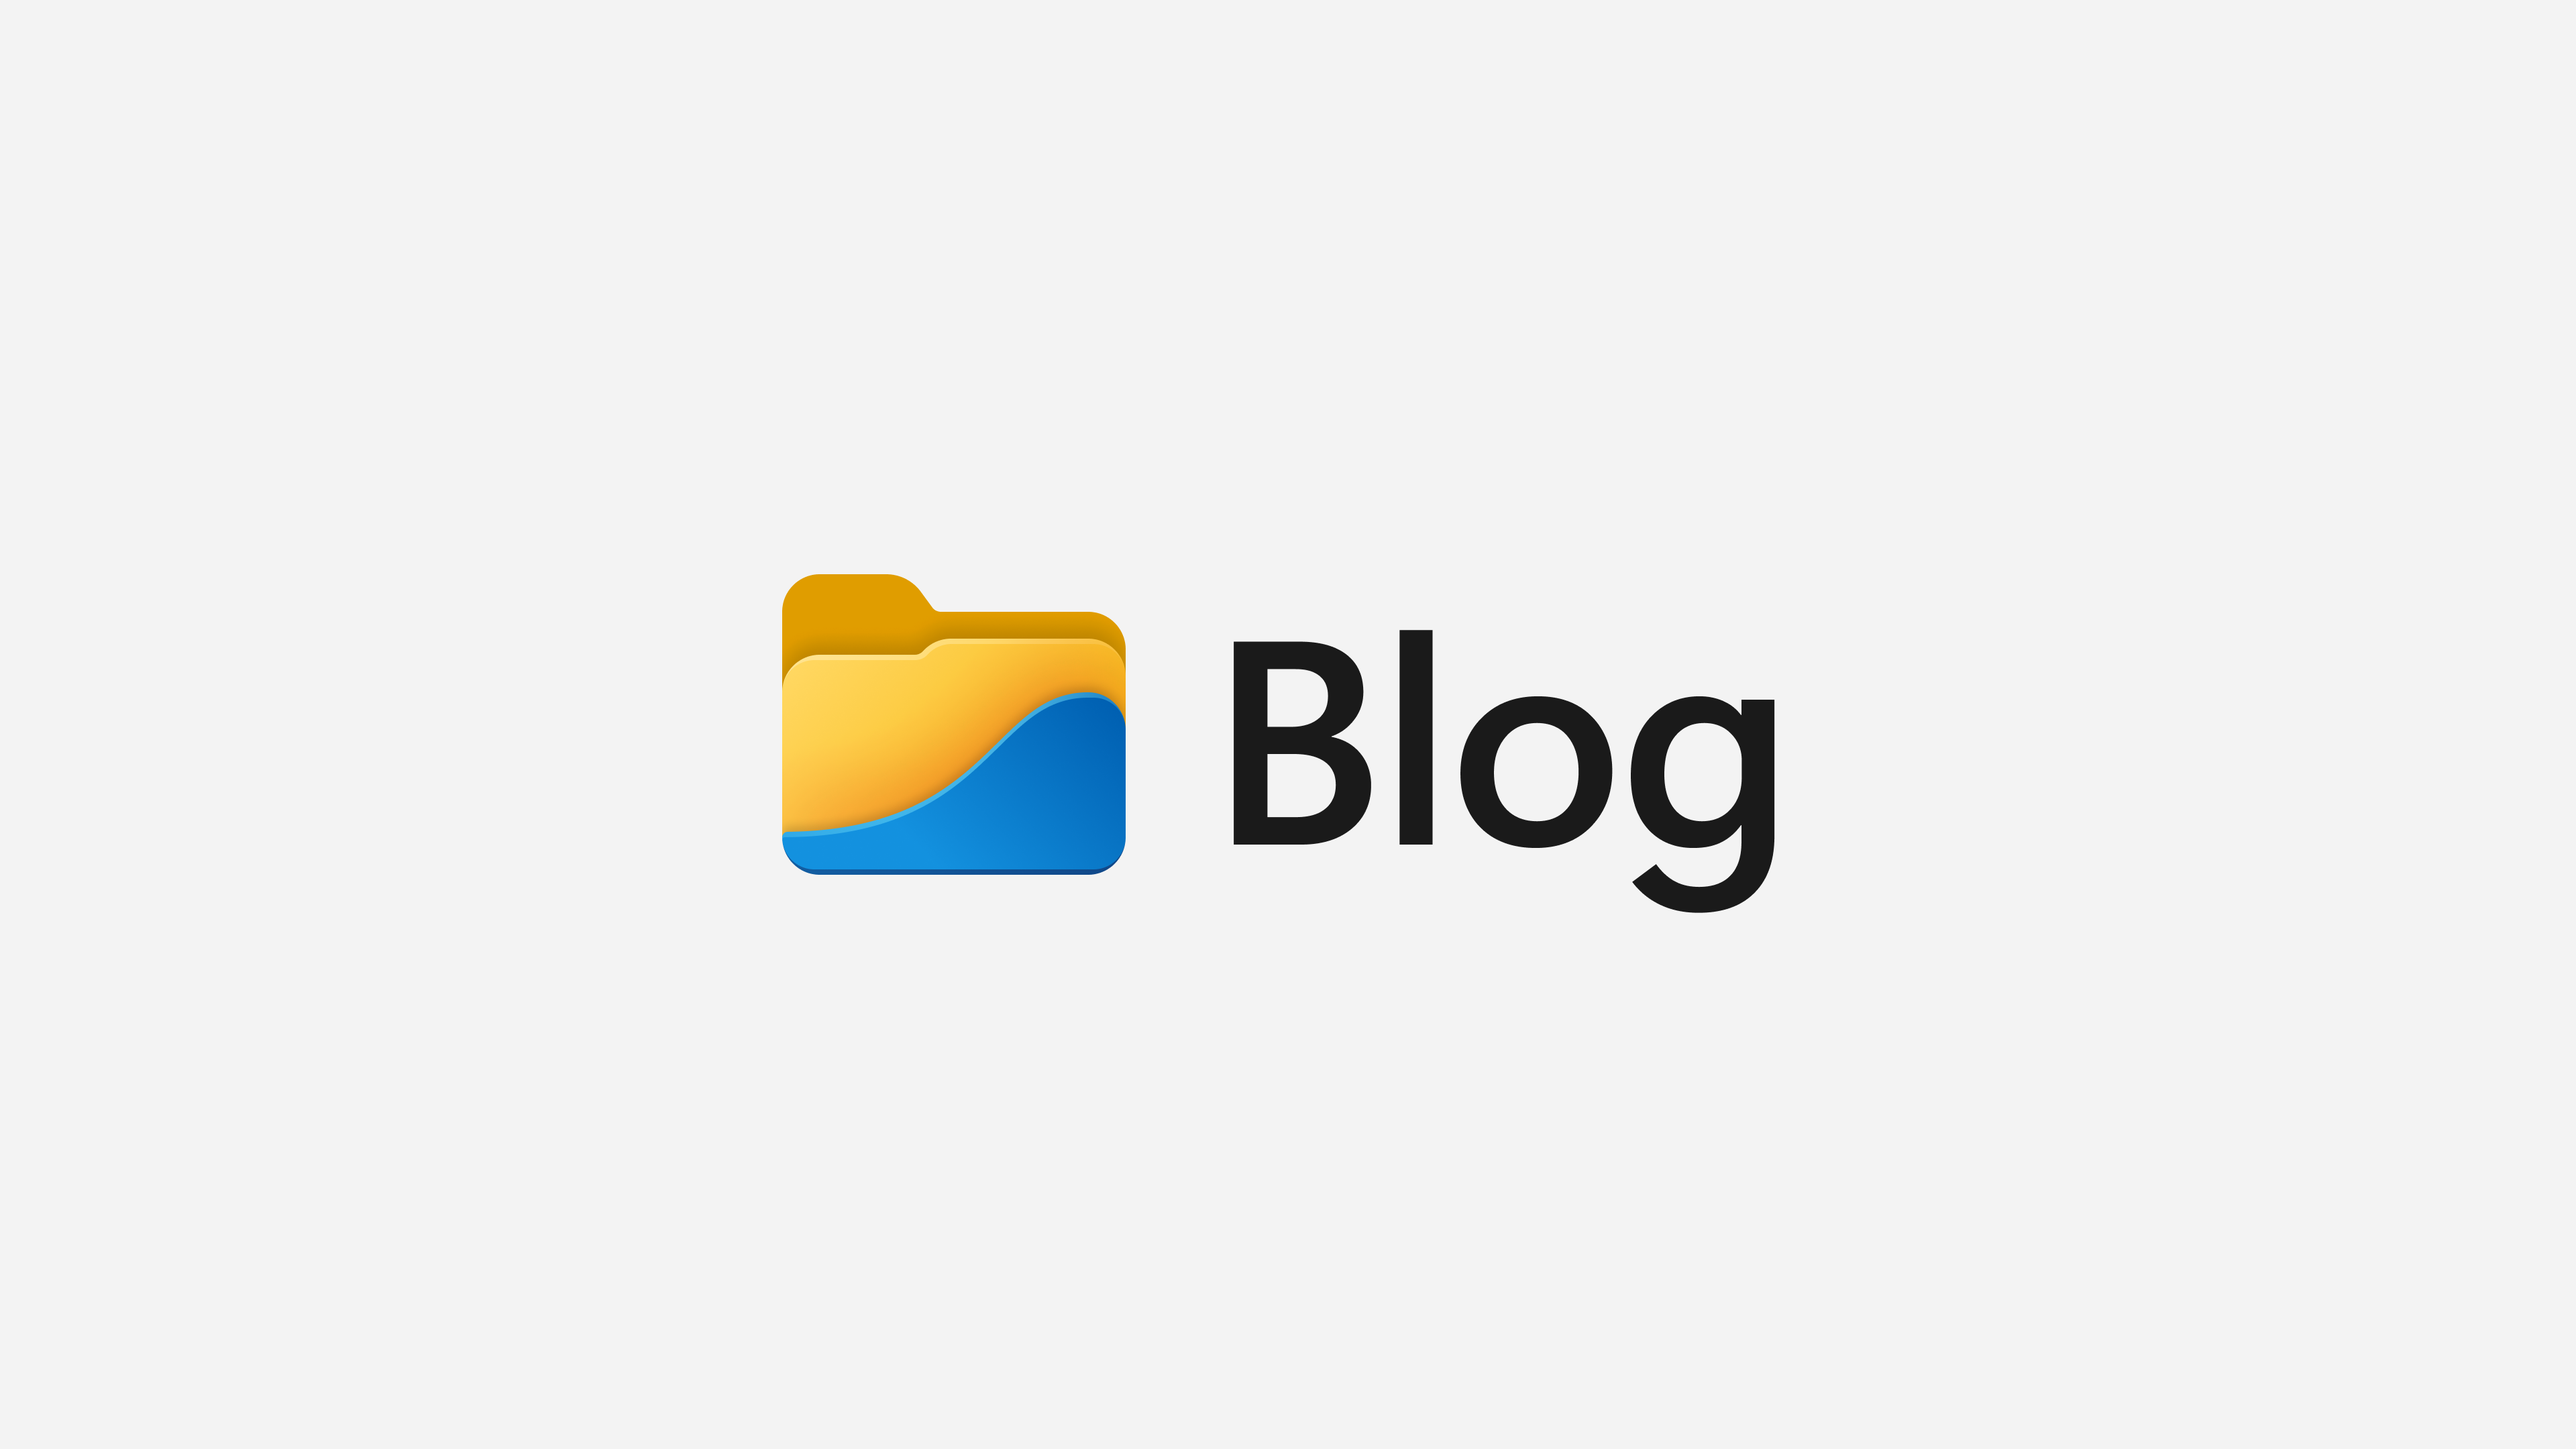
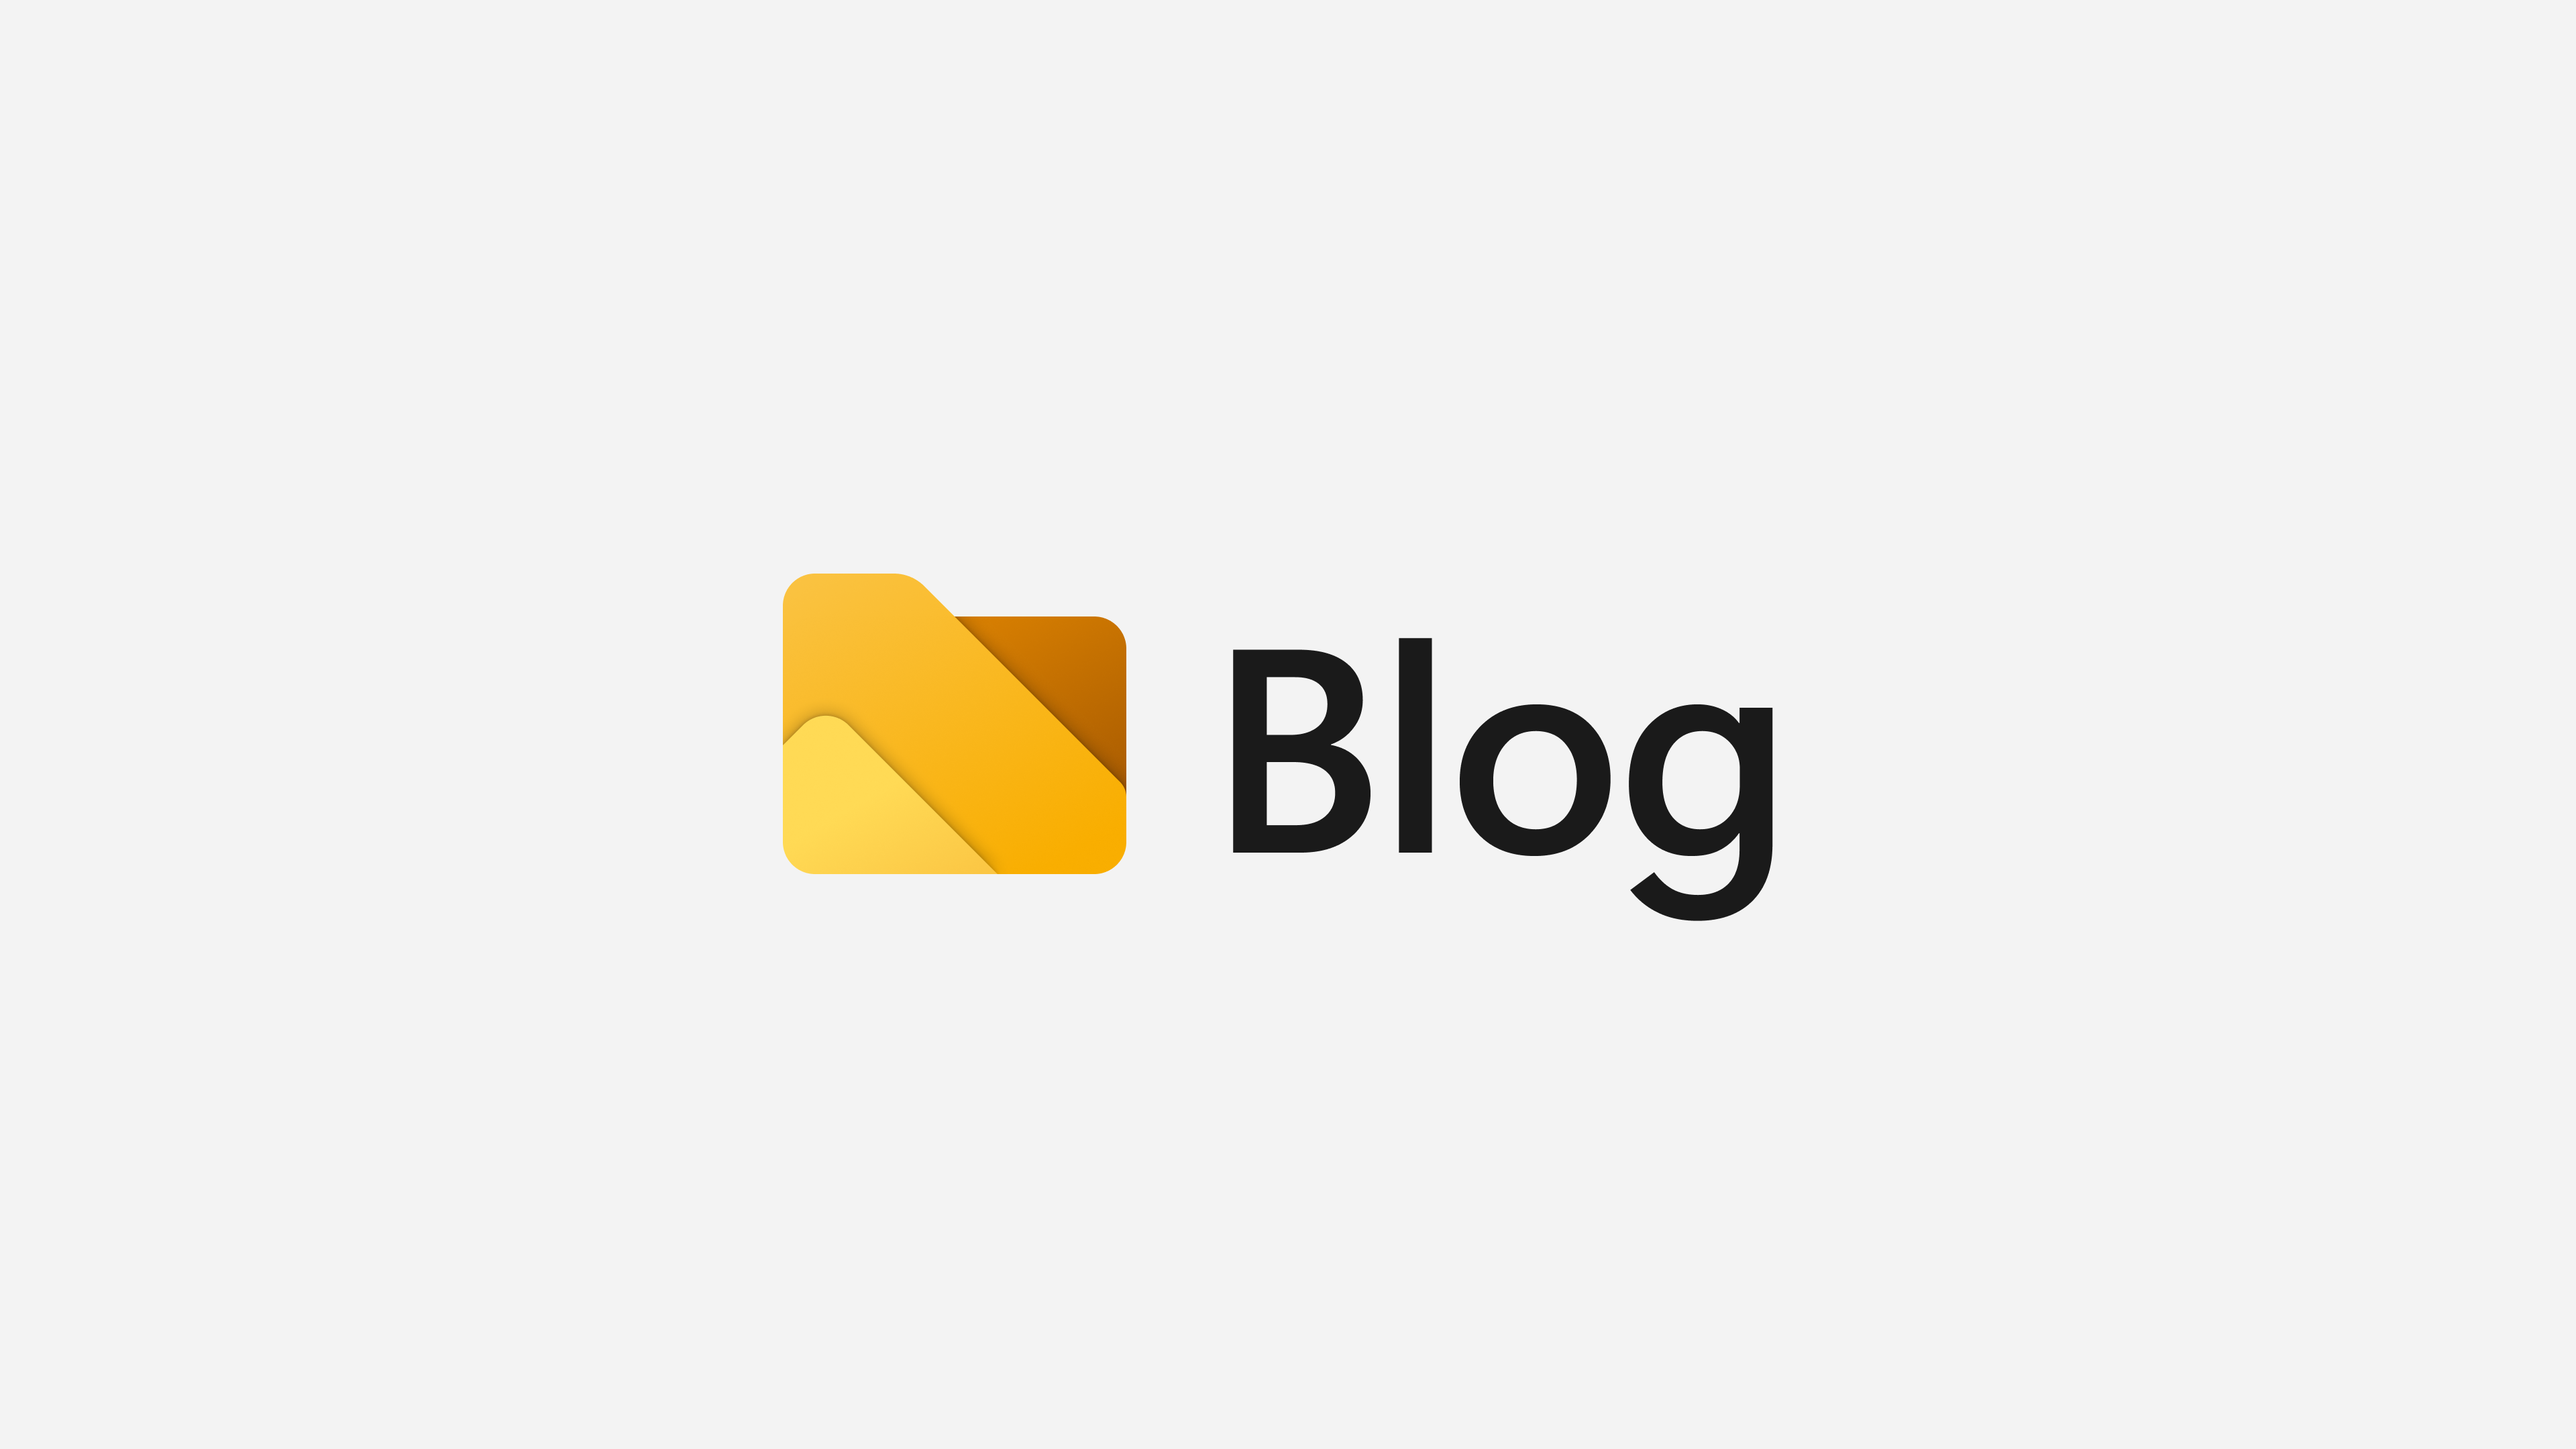
Update blog assets

diff --git a/src/routes/blog/posts/v3/+page.md b/src/routes/blog/posts/v3/+page.md
@@ -1,0 +1,96 @@
+---
+title: Announcing Files v3
+description: A design refresh, faster startup performance, support for previewing Office documents, & and speed graph for file operations.
+thumbnail: /blog-resources/v3/Hero.jpg
+date: 11/8/2023
+author: files-community
+---
+
+It's just a little over two years since the launch of v2, and the feedback from the community has encouraged us to keep on improving. Our mission with Files is to build the best file manager for Windows, and we're proud to be building it out in the open so everyone can participate and provide feedback. We're keenly aware that we wouldn't have gotten to this point without the support of our dedicated users and the open source community, and we want to extend a thank you to everyone who's been involved with the project until this point.
+
+We're excited to announce that starting today, v3 is now available. If you already have Files, there should be a notification on the toolbar to install the update. Otherwise, you can download Files for free from our [download page](/download/). You can also purchase Files on the [Microsoft Store](ms-windows-store://pdp/?ProductId=9nghp3dx8hdx&cid=FilesWebsite) to help support the project.
+
+**TL;DR:** Files v3 includes a refreshed design, faster startup performance, a command palette, support for previewing Offices documents, a speed graph for file operations, and more. Continue reading to learn more about these changes.
+
+## What's new in v3
+
+### Design updates
+
+When we set out to update the design, we wanted to ensure users would feel at home with the app they love. We were careful not to move the options and commands users are familiar with, whilst modernizing and refreshing core parts of the UI.
+
+- With v3 being one of the larger releases to date, we decided it was a good time to refresh the logo. After exploring a number of ideas and color combinations, we asked the community to help choose a color. It's probably no surprise, but the community overwhelmingly opted in favor of the familiar yellow color. We also updated the icons for the developer and preview versions of Files (purple & blue) to make it easier to identify the different variants of the app. 
+
+<figure>
+    <img src="/blog-resources/v3/NewIcon.jpg" alt="Updated Files Icon for all branches" />
+</figure>
+
+- We redesigned the sidebar from the ground up, removing the icons from headers and the indentations from child items. We also added icons to highlight pinned folders.
+- We rounded the corners on the file area and adjusted the background opacity to provide more distinction between the sidebar.
+
+<figure>
+    <img src="/blog-resources/v3/Sidebar.jpg" alt="Redesigned sidebar" />
+</figure>
+
+### Improved experience for file operations
+
+You can now track the progress and speed of file operations in the Status Center with the new graph feature.
+
+<figure>
+    <img src="/blog-resources/v3/StatusCenter.jpg" alt="Updated status center with the speed graph" />
+</figure>
+
+### Rich previews for your Office documents
+
+In addition to support for previewing Office documents, we added support for previewing file formats with a registered shell preview handler.
+
+<figure>
+    <img src="/blog-resources/v3/OfficePreview.jpg" alt="Updated preview pane" />
+</figure>
+
+### Added a Command Palette
+
+We're excited to introduce a Command Palette that lets you search and execute commands quickly and easily. You can access the Command Palette by pressing `ctrl` + `shift` + `p` on your keyboard, or by typing `>` into the address bar. The Command Palette will show you a list of available commands, or you can type in your own query to find the command you need.
+
+<figure>
+    <img src="/blog-resources/v3/CommandPalette.jpg" alt="Command Palette" />
+</figure>
+
+### Keep Files in the background
+
+We added an option to keep Files open in the background when closing the last window. This option is designed to improve the startup performance but can be turned on/off from the advanced settings page. Please be advised the using this option will use system resources even when the app is in the background.
+
+
+## Changes and Improvements
+
+- Added support for renaming network drives
+- Theme names are now localized in the settings dialog
+- Keyboard shortcuts are now displayed in the right click menu
+- Added support for opening shortcut files as another user
+- Added support for additional archive formats including `gz`, `mcpack`, `mcworld`, `jar`, `lzh`, and `appxbundle`
+- Added support for elevated file operations
+- Folders in special locations that don't have a directory watcher will now refresh when changes are made
+- Display error message when transferring files that are too large for FAT32
+- Removed the margin when using the compact spacing option
+- Added a "What's new" popup that can be viewed after an update
+- Files will now display a custom thumbnail when it's the registered handler for viewing archives.
+- Automatically update items when the date changes
+- Added support for canceling tab tear off by pressing the esc key
+- Added support for copying the paths of multiple items together
+- Improved the design and performance of the startup options in settings
+- Added `ctrl` + `shift` + `n` shortcut to create a new folder
+- Added support for unblocking downloaded folders from the properties window
+- Improved the icon resolution on tabs
+- Added support for Proton Drive
+- Added file operation support for FTP
+- Added support for formatting drives from the properties window
+- Added support to switch between items using arrow keys in the conflicts dialog
+
+### Conclusion
+
+As always, we appreciate your feedback and suggestions on how we improve Files. You can reach us through our GitHub issues page: https://github.com/files-community/Files/issues.
+
+Thank you for using Files! 😊
+
+---
+
+Download Files from our [download page](/download/).

diff --git a/src/routes/docs/configuring/troubleshooting-installation/+page.md b/src/routes/docs/configuring/troubleshooting-installation/+page.md
@@ -2,15 +2,19 @@
 title: Troubleshoot installation issues
 ---
 
-The installation process for Files relies on appinstaller and msix. While the installation process usually works as expected, it occasionally fails so we put together a list of issues and solutions.
+The installation process for Files relies on appinstaller and msix. While the installation process usually works as expected, there are some issues that sometimes occur.
 
-### App installation failed with error message: error 0xC00CEE23 The XML in the .appinstaller file is not valid: Line 33, Column 5, Reason: '>' expected. (Oxc00cee23)
+### App installation failed with error message: error 0xC00CEE23: The XML in the .appinstaller file is not valid: Line 33, Column 5, Reason: '>' expected. (Oxc00cee23)
 
 This issue can usually be by restarting Windows and running the appinstaller again.
 
-### An error occurred while accessing the file from the web. Please try downloading and opening the file locally.
+### App installation failed with error message: error 0x80070422: Opening the package from location Files.Package_2.5.0.0_x64_ARM64.msixbundle failed. (0x80070422)
 
-There aren't any known solution for this issue.
+This can be fixed by enabling the `Windows Update` and `Delivery Optimization` services.
+
+### An error occurred while accessing the file from the web. Please try downloading and opening the file locally
+
+There aren't any known solutions for this issue.
 
 ### Windows can't open this type of file (.appinstaller)
 

diff --git a/src/routes/docs/+page.md b/src/routes/docs/+page.md
@@ -2,8 +2,6 @@
 title: Overview
 ---
 
-Files is a modern file manager that helps users organize their files and folders. Built and maintained by the open-source community, Files features robust multitasking experiences, file tags, deep integrations, and an intuitive design.
+Files is a modern file manager that helps users organize their files and folders. Our mission with Files is to build the best file manager for Windows, and we're proud to be building it out in the open so everyone can participate. User feedback helps shape the features we work on, & the bug reports on GitHub help to make Files more reliable. Built and maintained by the open-source community, Files features robust multitasking experiences, file tags, deep integrations, and an intuitive design.
 
-Our mission is to create the best file manager for Windows together with the open-source community. Built with the WinAppSdk framework, we're able to take advantage of the latest features and UI libraries from Microsoft.
-
-![Screenshot of Files](/docs-resources/HeroImage.png)
+![Screenshot of Files](/docs-resources/HeroImage.jpg)

diff --git a/src/routes/docs/configuring/keyboard-shortcuts/+page.md b/src/routes/docs/configuring/keyboard-shortcuts/+page.md
@@ -27,7 +27,7 @@ Files supports a wide range of keyboard shortcuts to help you navigate the app. 
 | <kbd>Ctrl</kbd> + <kbd>Shift</kbd> + <kbd>Tab</kbd>   | Switch previous tab                             |
 | <kbd>Ctrl</kbd> + <kbd>Shift</kbd> + <kbd>K</kbd>     | Duplicate tab                                   |
 | <kbd>Ctrl</kbd> + <kbd>N</kbd>                        | New window                                      |
-| <kbd>Ctrl</kbd> + <kbd>Shift</kbd> + <kbd>N</kbd>     | New file                                        |
+| <kbd>Ctrl</kbd> + <kbd>Shift</kbd> + <kbd>N</kbd>     | Create new folder                               |
 | <kbd>Ctrl</kbd> + <kbd>Alt</kbd> + <kbd>Up</kbd>      | Open compact overlay                            |
 | <kbd>Ctrl</kbd> + <kbd>Alt</kbd> + <kbd>Down</kbd>    | Close compact overlay                           |
 | <kbd>Ctrl</kbd> + <kbd>B</kbd>                        | Collapse/Expand sidebar                         |

diff --git a/src/routes/docs/configuring/custom-themes/+page.md b/src/routes/docs/configuring/custom-themes/+page.md
@@ -32,7 +32,9 @@ Files has built-in support for custom fonts, to apply a custom font start by ope
 
 We put together some popular color combinations to help users create custom themes.
 
-#### **Glass (requires Windows 11)**
+#### **Glass**
+
+The glass theme is best paired with the Acrylic backdrop material.
 
 | Key                                 | Value       |
 | ----------------------------------- | ----------- |
